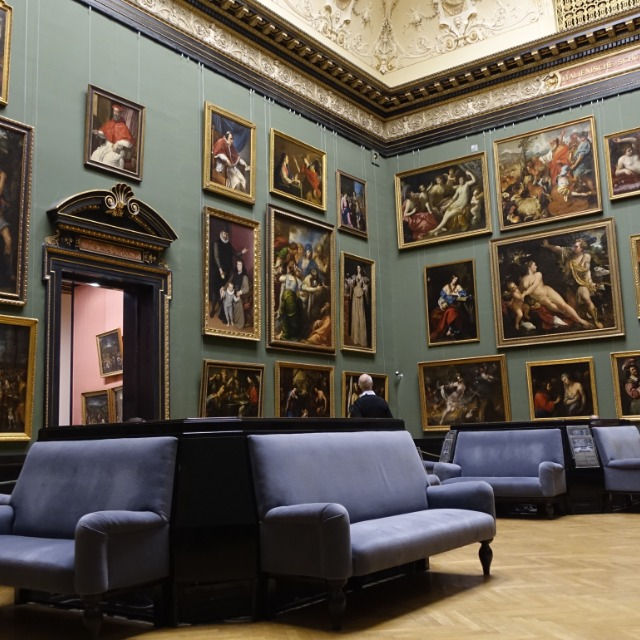
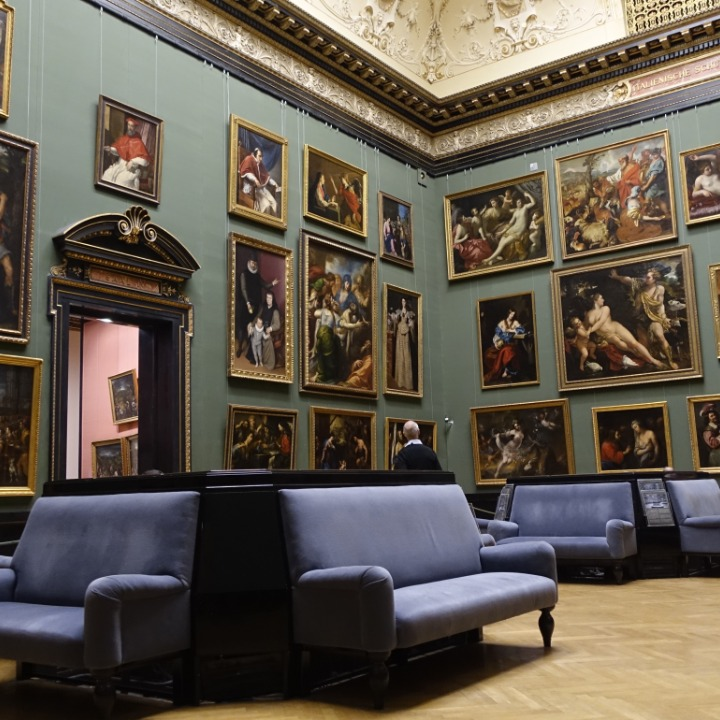
added new resolution of the image

Changed region(s): [[0.875, 0.0, 0.9375, 0.0312], [0.3438, 0.625, 0.375, 0.6562]]

diff --git a/style.css b/style.css
@@ -31,10 +31,28 @@ h4 {
 
 img {
   display: block;
+  max-width: 100%;
+  height: auto;
+}
+
+.landscape-image {
+  display: block;
+}
+
+.square-image {
+  display: none;
 }
 
 @media (min-width: 960px) {
   .header {
     grid-template-columns: repeat(2, 1fr);
+  }
+
+  .landscape-image {
+    display: none;
+  }
+
+  .square-image {
+    display: block;
   }
 }

diff --git a/index.html b/index.html
@@ -15,8 +15,8 @@
       <h1>Picture This!</h1>
       <h4>My Really Cool Blog Post</h4>
     </div>
-    <img src="images/museum.jpg" alt="placeholder">
-
+    <img class="landscape-image" src="images/museumlandscape.jpg" alt="placeholder">
+    <img class="square-image" src="images/museumsquare.jpg" alt="placeholder">
   </header>
 </body>
 
